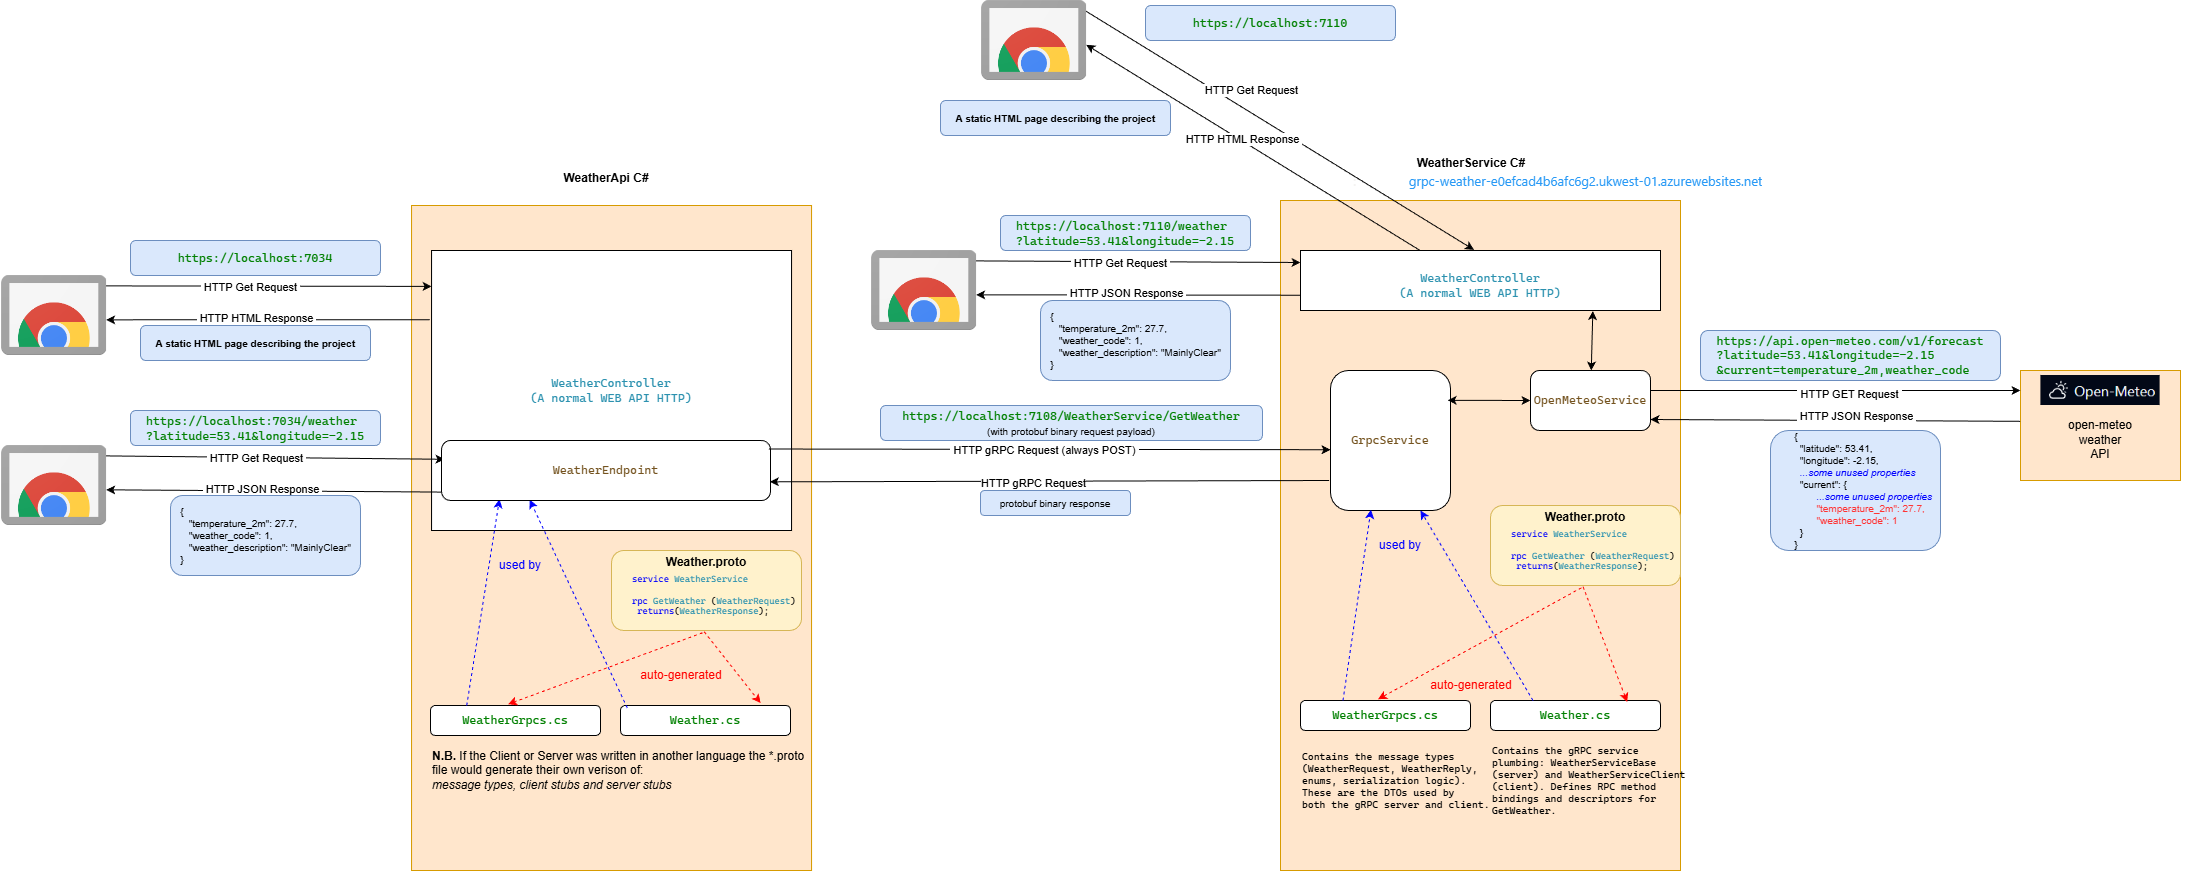
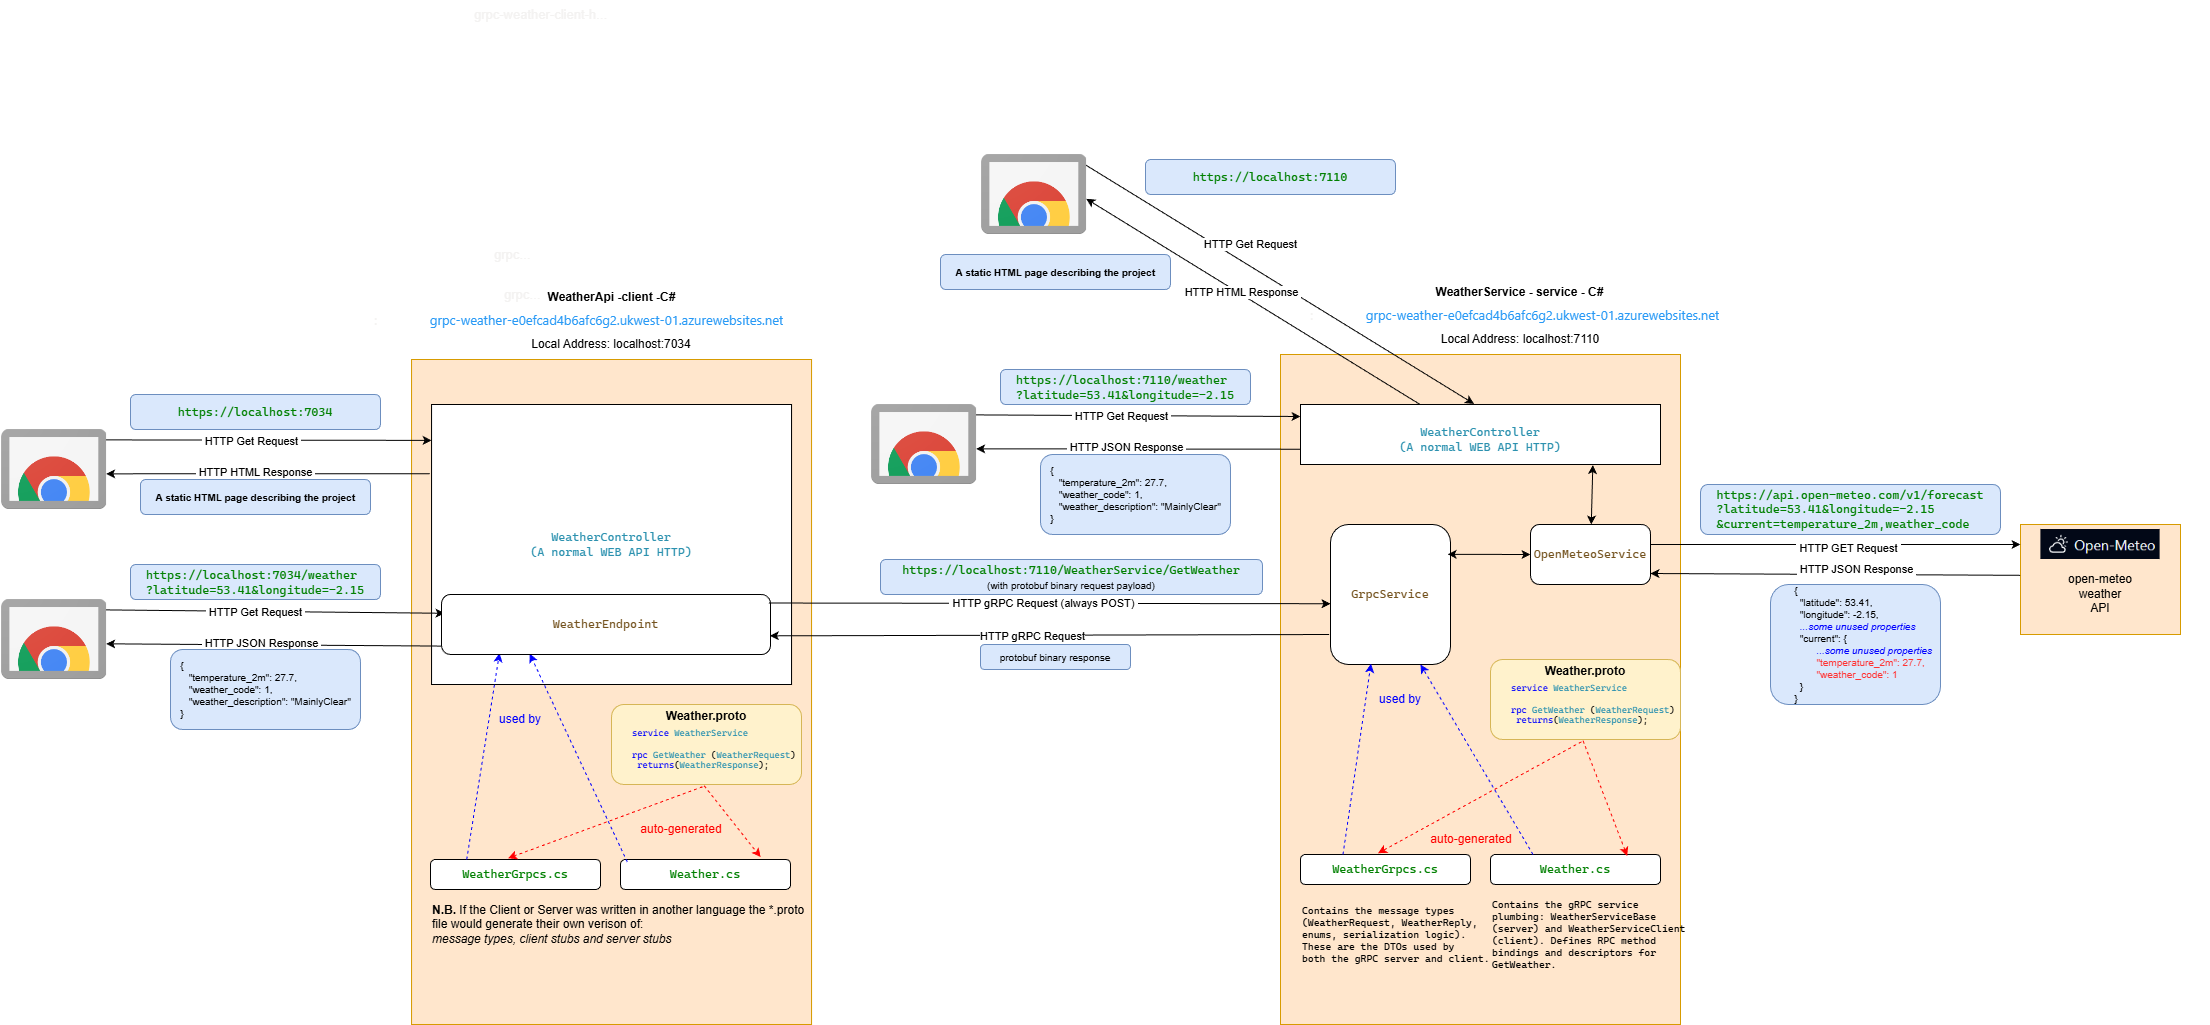
Add the azure paths to the documentation and in the code

diff --git a/WeatherApi/wwwroot/index.html b/WeatherApi/wwwroot/index.html
@@ -35,12 +35,12 @@
         <div class="bg-secondary bg-opacity-10 p-3 border rounded">
             <h2>GET WEATHER Via gRPC</h2>
             <ul>
-                <li>This is a C# API <b>WeatherApi - client</b> <i>(with this static HTML page at the root)</i> hosted on Azure at: ste:todo:</li>
+                <li>This is a C# API <b>WeatherApi - client</b> <i>(with this static HTML page at the root)</i> hosted on Azure at: <a href="grpc-weather-e0efcad4b6afc6g2.ukwest-01.azurewebsites.net" target="_blank">grpc-weather-e0efcad4b6afc6g2.ukwest-01.azurewebsites.net</a></li>
                 <li>The <b>WeatherApi - client</b> endpoint calls a <b>WeatherService - server</b> via gRPC</li>
                 <li>Both <b>WeatherApi - client</b> and <b>WeatherService - server</b> in a repo at : <a href="https://github.com/wizzard262/weather-via-grpc" target="_blank">https://github.com/wizzard262/weather-via-grpc</a></li>
                 <li>
                     <b>WeatherService - server</b>: <br />
-                    Hosted at: <a href="" target="_blank">ste:todo:</a> <br />
+                    Hosted at: <a href="https://github.com/wizzard262/weather-via-grpc" target="_blank">https://github.com/wizzard262/weather-via-grpc</a><br />
                     <b>Note:</b> Operating System must be Linux
                 </li>
                 <li>

diff --git a/WeatherService/wwwroot/index.html b/WeatherService/wwwroot/index.html
@@ -11,10 +11,10 @@
             <ul>
                 <li>This is a C# API <b>WeatherService - server</b> <i>(with this static HTML page at the root)</i> </li>
                 <li>The HTTTP GET copy of the gRPC endpoint it implenets can be access at: <a href="/weather?latitude=53.41&longitude=-2.15">/weather?latitude=53.41&longitude=-2.15</a></li>
-                <li>Hosted on Azure at: ste:todo:</li>
+                <li>Hosted on Azure at: <a href="grpc-weather-e0efcad4b6afc6g2.ukwest-01.azurewebsites.net">grpc-weather-e0efcad4b6afc6g2.ukwest-01.azurewebsites.net</a></li>
                 <li>A C# <b>WeatherApi - client</b> calls this service via gRPC to get weather data</li>
                 <li>Both <b>WeatherApi - client</b> and  <b>WeatherService - server</b> in a repo at : <a href="https://github.com/wizzard262/weather-via-grpc" target="_blank">https://github.com/wizzard262/weather-via-grpc</a></li>
-                <li>All other project info is on a root page of the <b>WeatherApi - client</b> <a href="" target="_blank">ste:todo:</a></li>
+                <li>All other project info is on a root page of the <b>WeatherApi - client</b> <a href="grpc-weather-e0efcad4b6afc6g2.ukwest-01.azurewebsites.net" target="_blank">grpc-weather-e0efcad4b6afc6g2.ukwest-01.azurewebsites.net</a></li>
             </ul>
         </div>
     </div>

diff --git a/WeatherApi/Controllers/WeatherController.cs b/WeatherApi/Controllers/WeatherController.cs
@@ -25,7 +25,11 @@ public class WeatherController : ControllerBase
     public async Task<IActionResult> GetWeather(double latitude, double longitude)
     {
         // Create channel
+#if DEBUG
         using var channel = GrpcChannel.ForAddress("https://localhost:7110"); // the local path of the WeatherService ste:todo: make this configurable
+#else
+        using var channel = GrpcChannel.ForAddress("grpc-weather-e0efcad4b6afc6g2.ukwest-01.azurewebsites.net"); // the local path of the WeatherService ste:todo: make this configurable
+#endif
 
         // Create client
         var client = new WeatherServiceClient(channel);